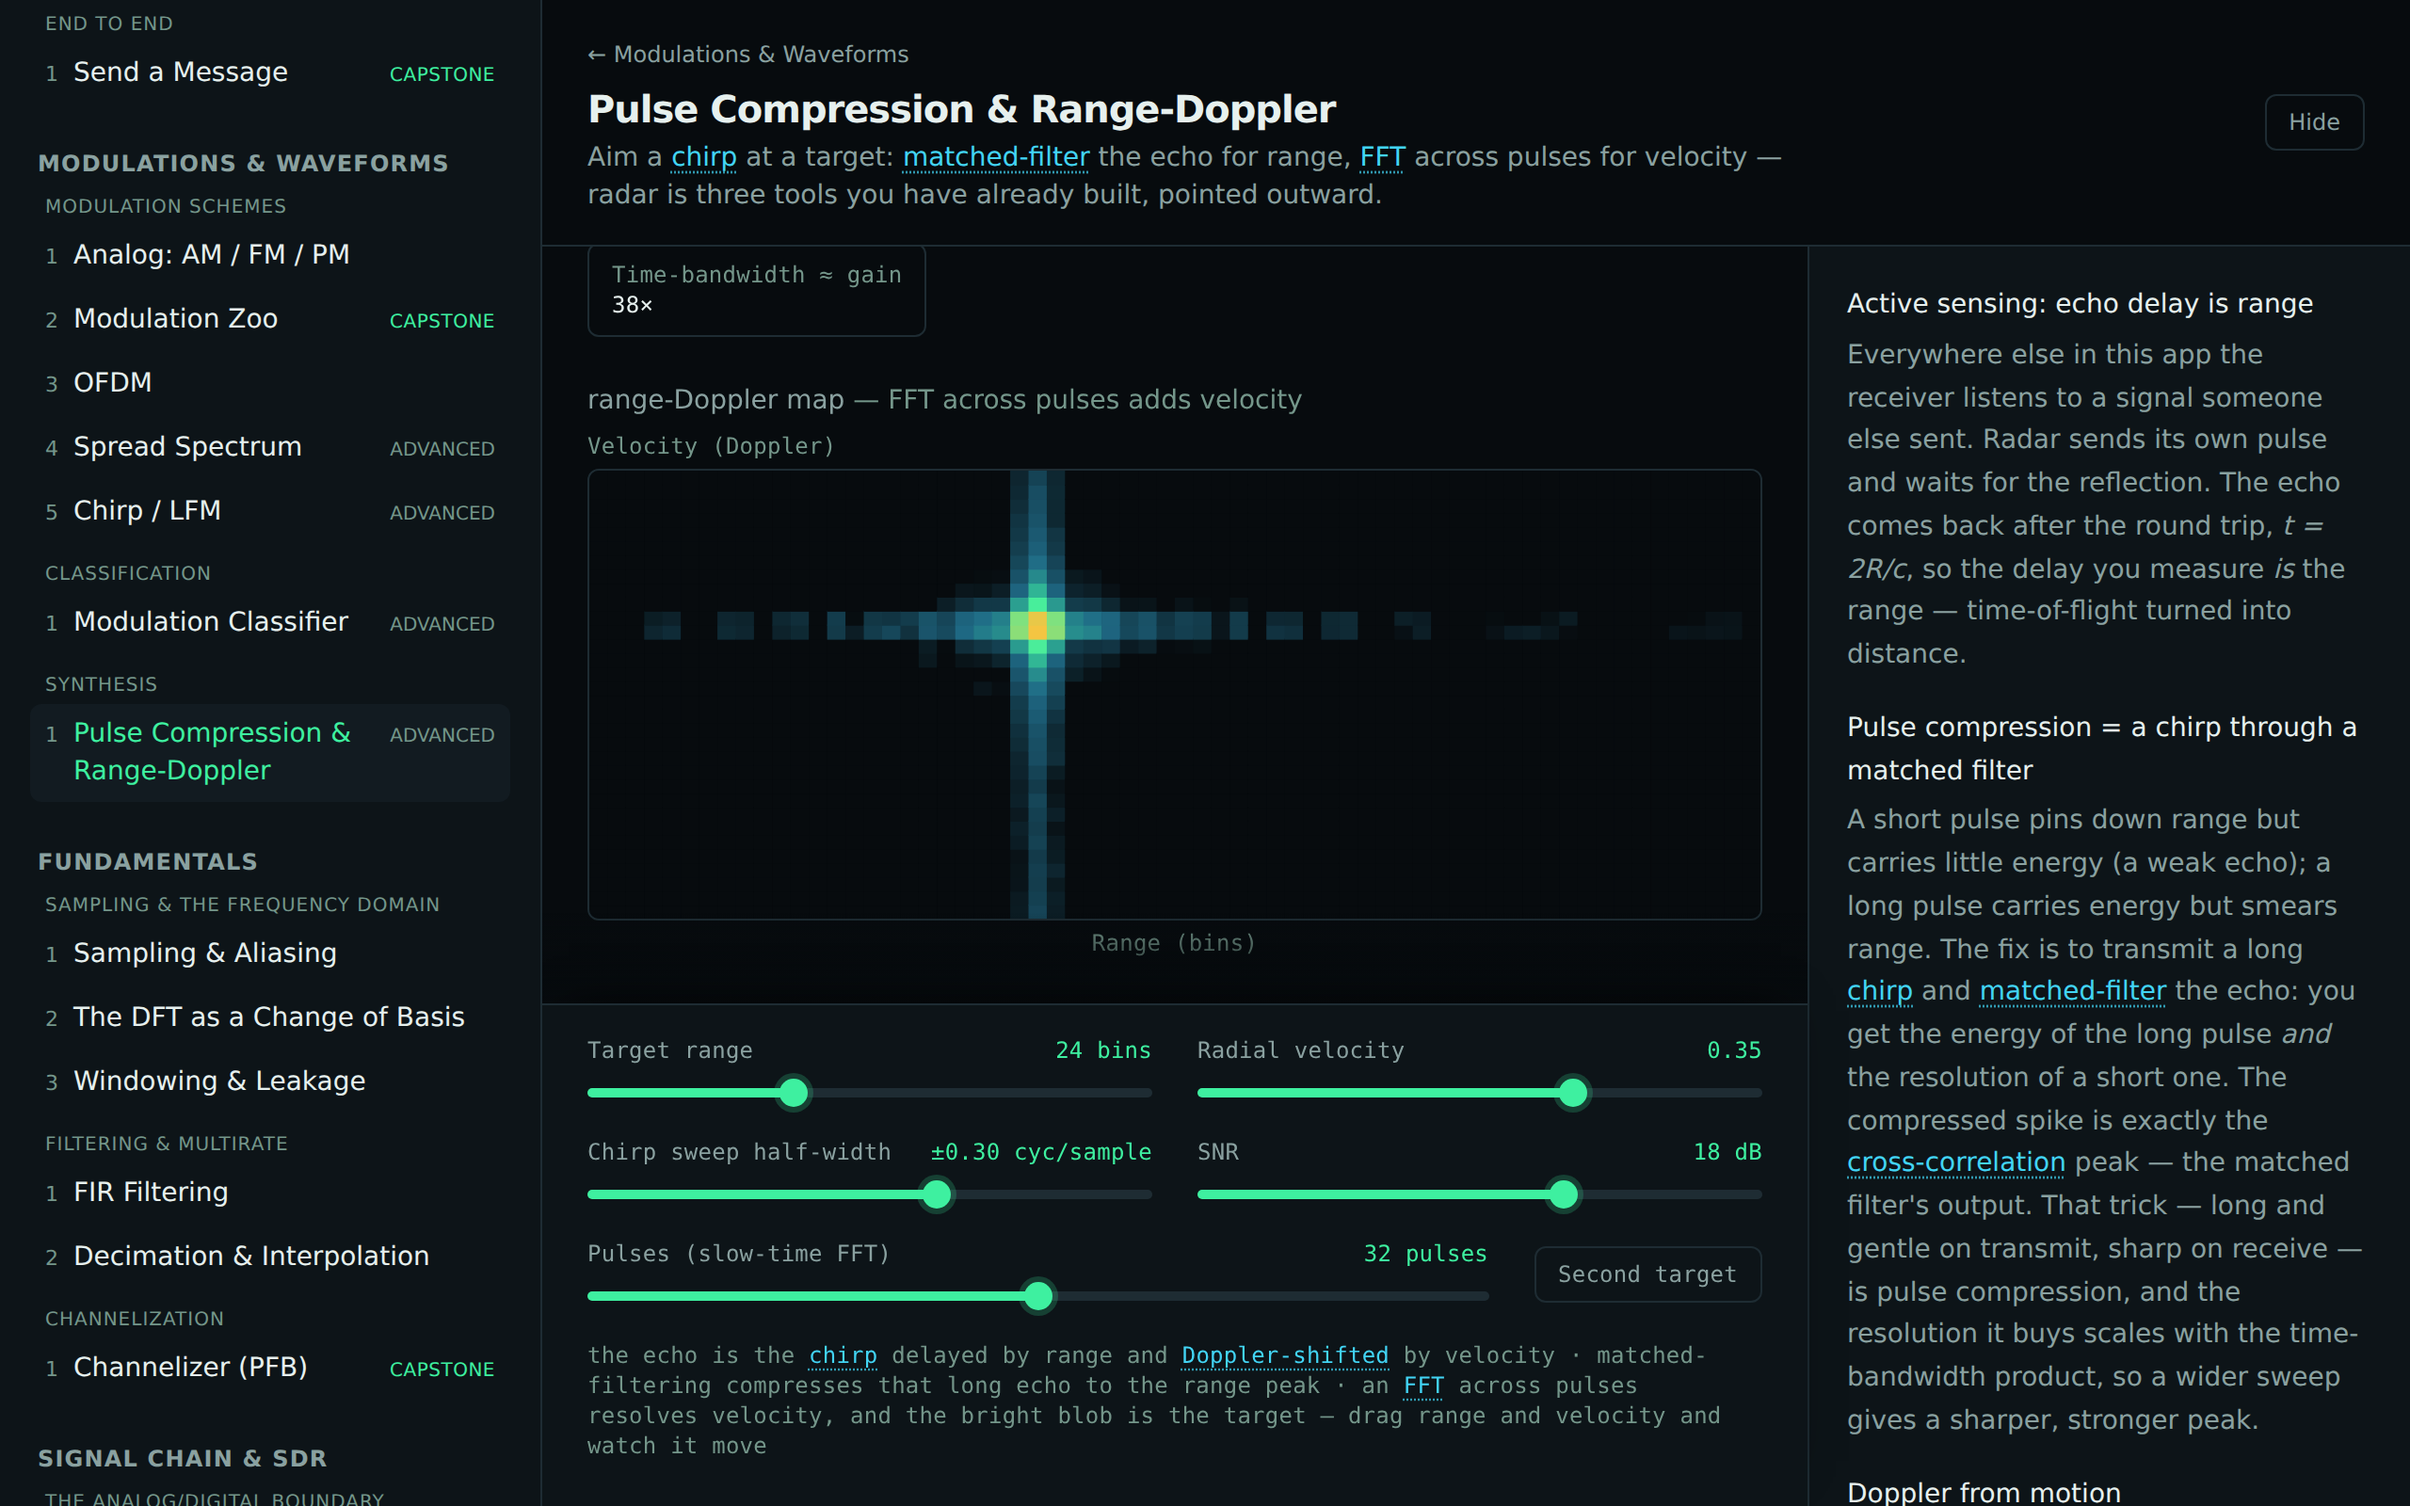
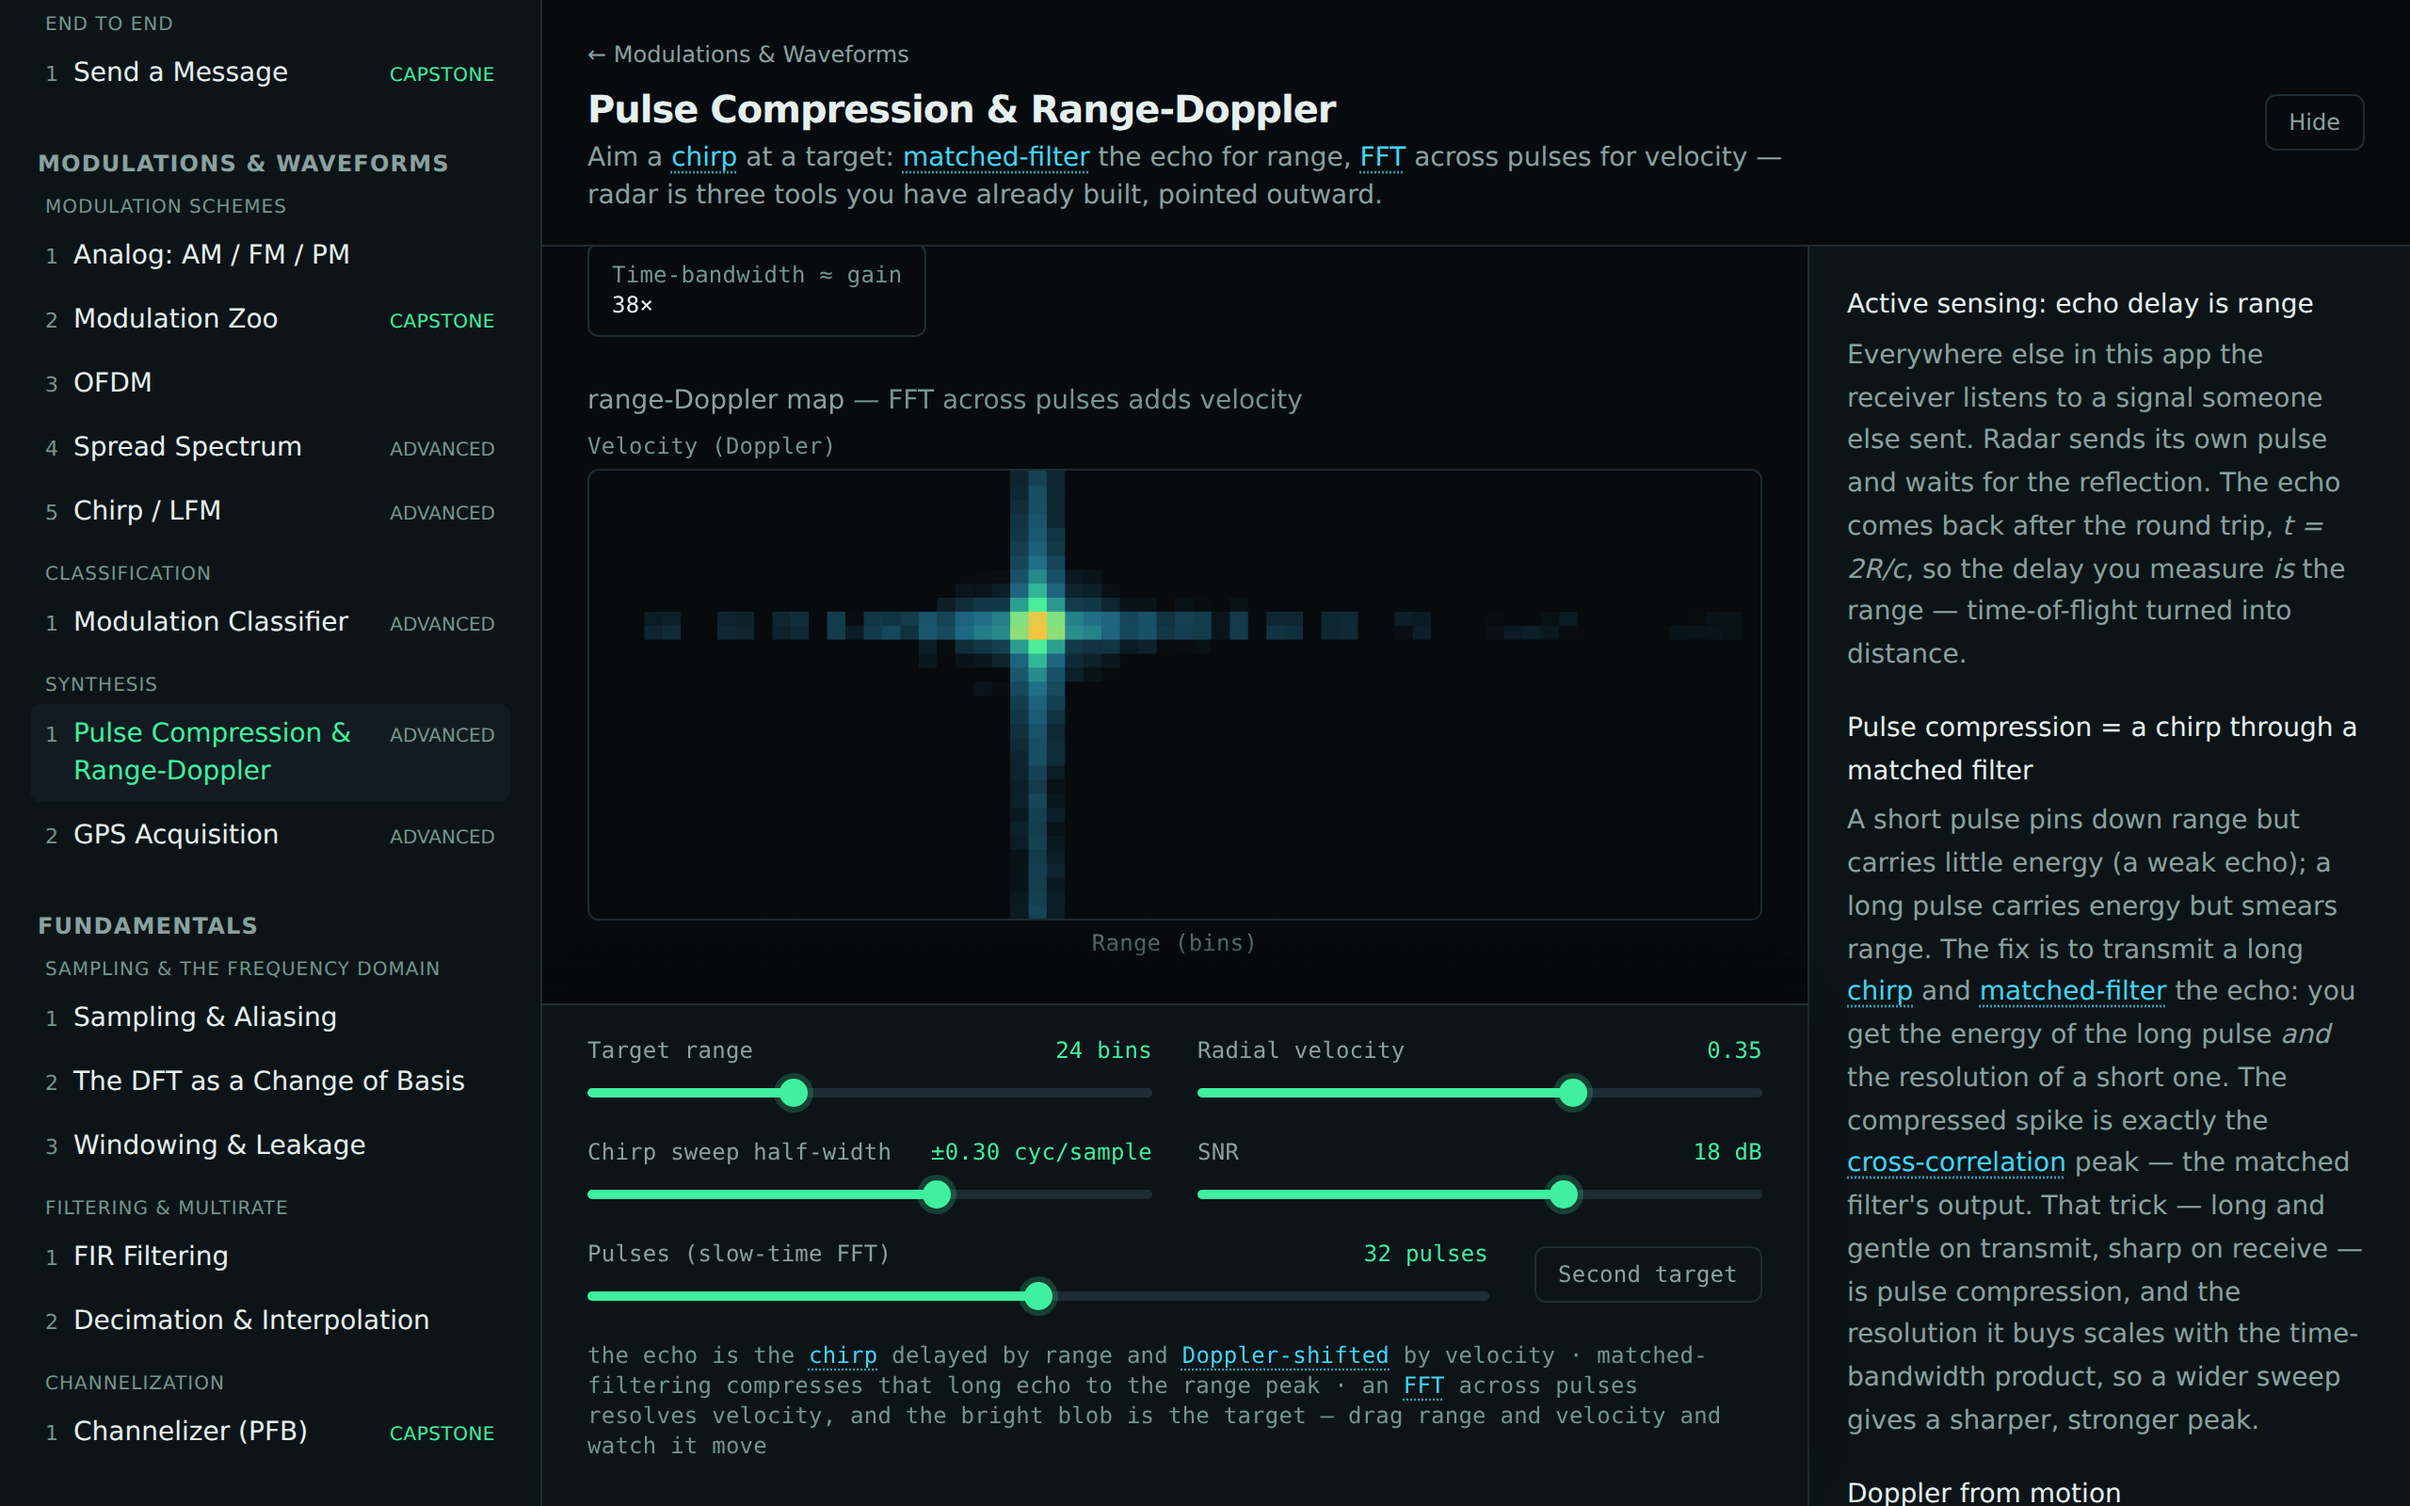
docs/screenshot: wire up the GPS Acquisition module
Adds the GPS Acquisition row + screenshot to the Modulations & Waveforms track
doc (and reframes the closing note around the track's two synthesis scenes), the
Playwright capture block (the surface is a draggable `application`, so it asserts
the same pinned-rail co-visibility as the radar scene), the CHANGELOG entry, and
the generated docs/images/gps-acquisition.png. Regenerates range-doppler.png,
which now renders through the shared AcquisitionHeatmap (visually unchanged).

Claude-Session: https://claude.ai/code/session_01M2Aaqk3HQPoLrLocsdnSKv

Changed region(s): [[0.0, 0.5312, 0.1875, 1.0], [0.1562, 0.9375, 0.1875, 0.9688], [0.1562, 0.5312, 0.1875, 0.5625]]

diff --git a/e2e/screenshots.spec.ts b/e2e/screenshots.spec.ts
@@ -250,6 +250,31 @@ test('pulse compression & range-Doppler module', async ({ page }) => {
   await page.screenshot({ path: path.join(IMG_DIR, 'range-doppler.png') });
 });
 
+test('GPS acquisition module', async ({ page }) => {
+  await page.goto('/');
+  await page.getByRole('button', { name: 'GPS Acquisition' }).first().click();
+  // The acquisition surface is an interactive (draggable) canvas, so it's an `application`, not an img.
+  const surface = page.getByRole('application', { name: /GPS acquisition surface/i });
+  await expect(surface).toBeVisible();
+  // Same pinned-rail synthesis layout as the radar scene: the plots scroll above a fixed control
+  // footer. Confirm the region overflows and shows the bottom-fade cue, then scroll to the bottom so
+  // the marquee surface and the code-phase/Doppler sliders are co-visible and the surface never
+  // renders under the rail. (CONTRIBUTING → "Keep controls co-visible with their target plot".)
+  const scroll = page.locator('.wf-scroll');
+  expect(await scroll.evaluate((el) => el.scrollHeight > el.clientHeight + 1)).toBe(true);
+  await expect(page.locator('.wf-scroll-fade')).toBeVisible();
+  await scroll.evaluate((el) => el.scrollTo({ top: el.scrollHeight }));
+  const codePhase = page.getByRole('slider', { name: /True code phase/i });
+  await expect(surface).toBeInViewport();
+  await expect(codePhase).toBeInViewport();
+  await expect(page.getByRole('slider', { name: /Doppler/i })).toBeInViewport();
+  const surfaceBox = await surface.boundingBox();
+  const sliderBox = await codePhase.boundingBox();
+  if (!surfaceBox || !sliderBox) throw new Error('surface or slider not laid out');
+  expect(surfaceBox.y + surfaceBox.height).toBeLessThanOrEqual(sliderBox.y + 1);
+  await page.screenshot({ path: path.join(IMG_DIR, 'gps-acquisition.png') });
+});
+
 test('sampling & aliasing module', async ({ page }) => {
   await page.goto('/');
   await page.getByRole('button', { name: 'Sampling & Aliasing' }).first().click();

diff --git a/docs/tracks/modulations-and-waveforms.md b/docs/tracks/modulations-and-waveforms.md
@@ -7,19 +7,20 @@ adding strategies, and spends the effort on a few explorer/comparison surfaces.
 
 The landscape in three tiers: **analog** (AM/FM/PM), **digital keying** (PSK/QAM linear + FSK/MSK
 constant-envelope), and **waveform-level systems** (OFDM, spread spectrum, chirp) that are
-compositions of the primitives. A closing **synthesis** scene then aims those primitives outward.
+compositions of the primitives. Closing **synthesis** scenes then aim those primitives outward.
 
 ## Modules
 
-| Module                                | Intuition                                                                       | Status      |
-| ------------------------------------- | ------------------------------------------------------------------------------- | ----------- |
-| **Analog: AM / FM / PM**              | One message, three carriers — wiggle amplitude, frequency, or phase.            | ✅ shipping |
-| **Modulation Zoo**                    | A/B two schemes across five synchronized views (the marquee).                   | ✅ shipping |
-| **OFDM**                              | Many slow QPSK subcarriers via IFFT + cyclic prefix; multipath made easy.       | ✅ shipping |
-| **Spread Spectrum**                   | A PN code smears data wide and low, then de-spreads it back (processing gain).  | advanced    |
-| **Chirp / LFM**                       | A swept tone draws the spectrogram diagonal; pulse compression.                 | advanced    |
-| **Modulation Classifier**             | Identify an unknown scheme from a few features (envelope, spread, I/Q balance). | advanced    |
-| **Pulse Compression & Range-Doppler** | Aim the chirp outward: matched-filter the echo for range, FFT pulses for speed. | advanced    |
+| Module                                | Intuition                                                                                                     | Status      |
+| ------------------------------------- | ------------------------------------------------------------------------------------------------------------- | ----------- |
+| **Analog: AM / FM / PM**              | One message, three carriers — wiggle amplitude, frequency, or phase.                                          | ✅ shipping |
+| **Modulation Zoo**                    | A/B two schemes across five synchronized views (the marquee).                                                 | ✅ shipping |
+| **OFDM**                              | Many slow QPSK subcarriers via IFFT + cyclic prefix; multipath made easy.                                     | ✅ shipping |
+| **Spread Spectrum**                   | A PN code smears data wide and low, then de-spreads it back (processing gain).                                | advanced    |
+| **Chirp / LFM**                       | A swept tone draws the spectrogram diagonal; pulse compression.                                               | advanced    |
+| **Modulation Classifier**             | Identify an unknown scheme from a few features (envelope, spread, I/Q balance).                               | advanced    |
+| **Pulse Compression & Range-Doppler** | Aim the chirp outward: matched-filter the echo for range, FFT pulses for speed.                               | advanced    |
+| **GPS Acquisition**                   | The signal is under the noise — correlate against the known code and a peak rises; where it peaks is a range. | advanced    |
 
 ![Modulation Zoo module](../images/modulation-zoo.png)
 
@@ -31,10 +32,14 @@ compositions of the primitives. A closing **synthesis** scene then aims those pr
 
 ![Pulse Compression & Range-Doppler module](../images/range-doppler.png)
 
+![GPS Acquisition module](../images/gps-acquisition.png)
+
 > Linear schemes (PSK/QAM) read on the constellation; constant-envelope schemes (FSK/MSK) read in
 > frequency — the track surfaces that distinction directly. The analog on-ramp is audible (AM
-> tremolo vs FM/PM vibrato) via Web Audio. The closing synthesis scene is the one place these
-> waveforms are pointed at a target: **pulse compression** is the chirp through a matched filter,
-> Doppler processing is an FFT across pulses, and together they paint a **range-Doppler map** — the
-> radar cousin of the GDOP heatmap, recombining tools from across the app rather than opening radar
-> as a new field. All signals are synthetic and illustrative.
+> tremolo vs FM/PM vibrato) via Web Audio. The two closing synthesis scenes are where these waveforms
+> are pointed at a target: **pulse compression** is the chirp through a matched filter, and an FFT
+> across pulses paints a **range-Doppler map** — the radar cousin of the GDOP heatmap — while **GPS
+> acquisition** pulls a spreading-code signal out from under the noise floor and reads range off the
+> correlation peak, searching code phase × Doppler on the same 2D surface (drawn with the same shared
+> component). Both recombine tools from across the app rather than opening a new field. All signals are
+> synthetic and illustrative.

diff --git a/CHANGELOG.md b/CHANGELOG.md
@@ -8,6 +8,36 @@ All notable changes to this project are documented here. The format is based on
 
 ### Added
 
+- **Synthesis module: GPS Acquisition.** A deliberately bounded synthesis scene added to
+  **Modulations & Waveforms** (alongside the radar scene in the "Synthesis" stage; the Modulation Zoo
+  stays the track's marquee), making one point click: GPS is three things already built — spread
+  spectrum, correlation, and multilateration — plus one genuinely new idea, **receiving a signal that
+  sits below the noise floor** and reading **range** off the correlation peak's position. Each satellite
+  repeats a known **PRN** spreading code; the received samples are that code delayed by a **code phase**
+  (its travel time → a **pseudorange**) and Doppler-shifted, buried at negative SNR and visually
+  indistinguishable from noise. Correlating against the known code applies the spread-spectrum
+  **processing gain** in reverse — the despreader, run to acquire — lifting a sharp peak out of the
+  noise; since neither the code phase nor the Doppler is known, **acquisition** searches both at once on
+  a **code-phase × Doppler** surface. Drag the true target (or the sliders), drop the SNR, or shorten
+  the integration and watch the peak track it — or sink into the noise. One from-scratch, tested `dsp/`
+  addition backs it (`src/dsp/gps.ts`: `prnReceived`, `codePhaseProfile`, `acquisitionSurface`,
+  `acquisitionPeak`), reusing the Spread Spectrum module's `pnCode`, the FFT (with the centered-bin
+  helper hoisted to `src/dsp/fft.ts` as `fftShiftedBin`), and the Gaussian-noise model wholesale; the
+  tests pin the surface peak at the true (code phase, Doppler) bin, the despread peak at the processing
+  gain 10·log₁₀(L), and a 15-dB-sub-noise signal acquired with integration and vanishing below a deep
+  enough SNR. The **2D acquisition heatmap is now one shared, reusable component**
+  (`src/components/plots/AcquisitionHeatmap.tsx`, axes parameterized: range/code-phase × Doppler) that
+  both the radar range-Doppler map and this scene render — the radar map refactored onto it — with a
+  draggable, keyboard-operable true-target handle (grab/grabbing cursor + halo) here. Six glossary terms
+  (acquisition, code phase, pseudorange, PRN, processing gain, multilateration) and
+  `docs/dsp/gps-acquisition.md`. Four acquired satellites fix a position by **multilateration** — the
+  GDOP Heatmap and TDOA Multilateration geometry, linked by name rather than rebuilt. Strictly the open
+  civilian (C/A-style) signal at undergraduate-textbook depth; all signals/parameters synthetic and
+  illustrative (a synthetic PRN code, code phase in chips, Doppler normalized), with no real PRN
+  assignments, frequencies, or ephemeris — and explicitly **not** a GNSS track (tracking loops, the
+  navigation-message decode, and ionospheric corrections are named as out-of-scope directions, not
+  built; restricted/encrypted signals and spoofing/jamming are out of scope).
+
 - **Synthesis module: The Ionosonde & the Ionogram.** A deliberately bounded synthesis scene added
   to **Propagation & Bands** (a new "Synthesis" stage; Band Explorer stays the track's marquee),
   making one point click: an ionosonde is echo-delay radar pointed straight up. Ping the sky and the
